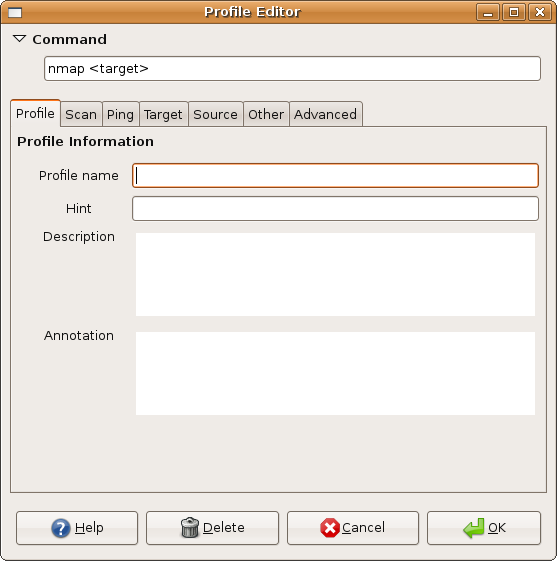
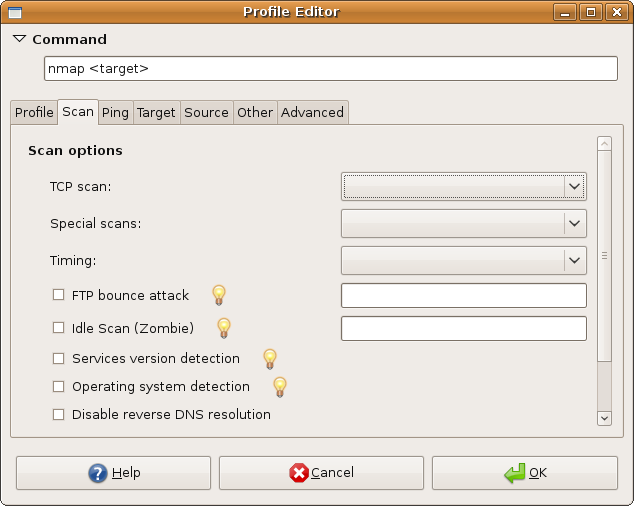
Update Profiles documentation
git-svn-id: http://svn.umitproject.org/svnroot/umit/trunk@5148 1105ee14-b0fa-0310-85a5-ff3eed429ff7

diff --git a/share/doc/umit/src/profile_editor.rst b/share/doc/umit/src/profile_editor.rst
@@ -2,6 +2,7 @@ Profile Editor
 ==============
 
 .. sectionauthor:: Adriano Monteiro Marques
+.. sectionauthor:: Luís A. Bastião Silva
 
 .. warning::
 
@@ -16,9 +17,11 @@ Introduction
 Using Umit it's normal to use the same arguments or make repeated scans and
 sometimes it's not easy to search for the same options of nmap again.
 
-Profile Editor is able to create, copy and delele profiles. With it you should
+Profile Editor is able to create profiles. With it you should
 be able to save the nmap arguments and run scans with some paramenters in the
-future.
+future. 
+
+Since Umit Network Scanner 1.0 it was included a manager of Profiles called ProfileManager.
 
 What does it do?
 ^^^^^^^^^^^^^^^^
@@ -51,10 +54,19 @@ The screenshot above shows the Profile Editor.
 
    * The key-stroke that creates a new Profile is CTRL + P
 
-2. **Acces from the Main Menu**
+2. **Access from the Main Menu**
 
    * Go to the *Main Menu* (the one on the top of the application),
      Profile->New Profile.
+
+3. **Access from the ProfileManager**
+    
+     1. Go to the *Profile Manager* (Profile>Profile Manager)
+     
+     2. Press in *New* button
+
+
+
 
 The profile descriptions (name, hint, description, etc.)
 There are some fields to fill about a Profile. It's mandatory fill the
@@ -87,10 +99,18 @@ Editing a profile
 
    * The key-stroke Edit Profile is CTRL + E
 
-2. **Acces from the Main Menu**
+2. **Access from the Main Menu**
 
    * Go to the *Main Menu* (the one on the top of the application),
      Profile->Edit Profile.
+
+3. **Access from ProfileManager**
+
+    1. Go to the *Profile Manager* (Profile>Profile Manager)
+     
+    2. Select profile you intend to change 
+
+    3. Press in *Edit* button
 
 
 Creating a new profile based on an old one
@@ -107,8 +127,18 @@ a similar Profile, use it.
 2. **Acces from the Main Menu**
 
    * Select Profile in combo box of Scan tab and go to the *Main Menu*
-     (the one on the top of the application),
-     Profile->New Profile with Selected
+     (the one on the top of the application), Profile->New Profile with Selected
+
+3. **Access from the Profile Manager**
+   
+    1.  Go to the *Profile Manager* (Profile>Profile Manager)
+
+    2. Select profile intended to copy
+
+    3. Press in *Copy* button. 
+
+    4. It will ask to another name. Then you are able to edit the copy's profile.
+
 
 
 Deleting Profiles
@@ -117,22 +147,28 @@ Deleting Profiles
 If you want delete a Profile by some reason it is possible. Follow one of the
 procedures below.
 
-1. **Use the key-stroke**
-
-   * In combo Box of Scan Tab select a profile. The key-stroke to delete a
-     Profile is CTRL + M
-
-2. **Acces from the Main Menu**
+1. **Acces from the Main Menu**
 
    * Select Profile in combo box of Scan tab and go to the *Main Menu*
      (the one on the top of the application), Profile->Delete Profile
 
-3. **Using Profile Editor**
+2. **Using ProfileManager**
 
-   1. Select Profile in combo box of Scan tab and go to *Main Menu*
-      (the one on the top of the application), Profile->Edit Profile.
+    1.  Go to the *Profile Manager* (Profile>Profile Manager)
 
-   2. Press the *Delete* button.
+    2. Select profile intended to remove
+
+    3. Press the *Delete* button
+
+
+Profile Manager
+-----------------------------
+
+The *Profile Manager* is able to create, edit and delete new profiles as we explain above.
+
+   .. image:: static/profile_manager.png
+      :align: center
+
 
 
 The profile editor structure
@@ -145,3 +181,5 @@ editor are options.xml and profile_editor.xml.
 The widgets available for options is combo box, checkbox and text
 entry. We have the box with numbers (for example, number of ports) to
 use as parameter.
+
+
